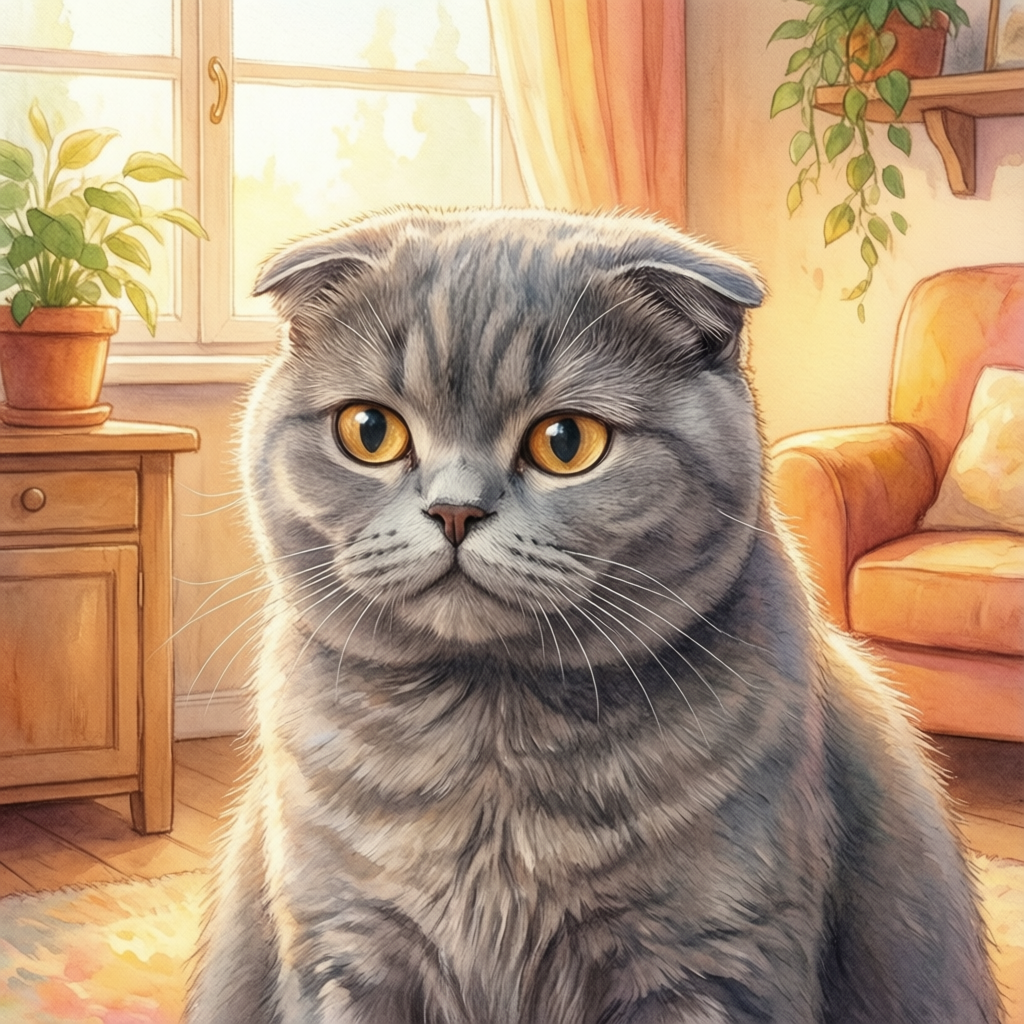
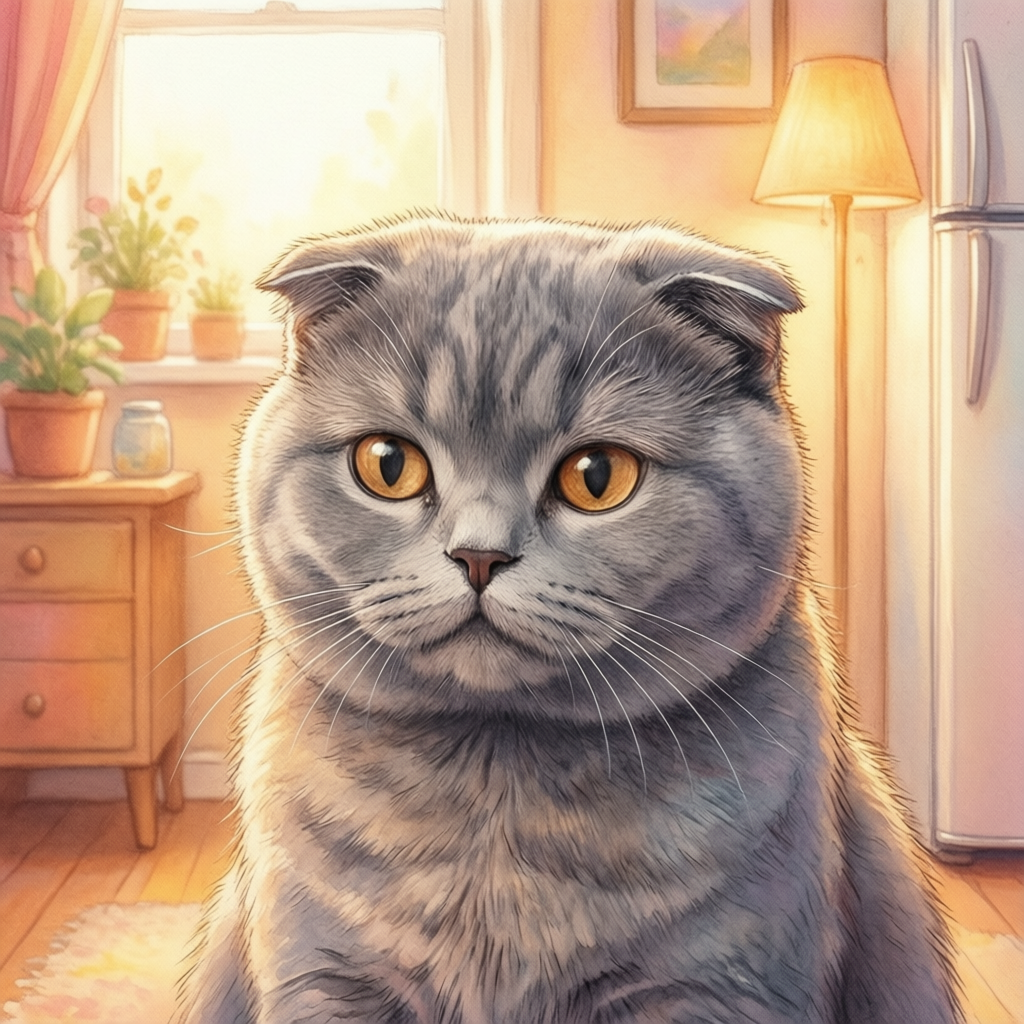
feat: глава 5 — Про детские рисунки на холодильнике

diff --git a/chapters/05.md b/chapters/05.md
@@ -1,89 +1,75 @@
 # Глава 5. Про детские рисунки на холодильнике
 
-***
+Воскресенье в нашем доме пахнет гуашью и подгоревшими блинами. Первое — от младшего, второе — от Марии, которая жарит и одновременно слушает, как старший бубнит из своей комнаты про силу трения. Я лежу на подоконнике, поджав лапы, и притворяюсь частью пейзажа. Но мне всё слышно. У котов выходных не бывает.
 
-Утро воскресенья не звонит в будильник. Оно просачивается в комнату сквозь шторы — бледное, хрустальное, с запахом замороженной травы и дымка от чьей-то печи. В Краснодаре 4,8 градуса. Солнце лжётся на пол длинными косыми полосками, и я иду за ними, как за заяцем, которого не догоню, но за которым приятно бегать.
-
-Мария уже на кухне. Чайник шипит, как уставший паровоз. Она стоит у стола, обняв себя за плечи — жест, который она делает только когда думает, что никто не смотрит. Муж ушёл рано. Охота, рыбалка, «дело на даче» — формулировки меняются, суть одна: ему нужен воздух, где не нужно быть отцом, мужем, сыном. Я понимаю. Каждому нужен свой угол, где можно просто быть кошкой. Или человеком без ролей.
+Солнце сегодня скупое, но честное. Светит ровно до середины кухни — до того места, где стоит коробка с сухим кормом, и дальше не идёт. За окном четыре градуса тепла, голые ветки берёзы, и на одной из них опять сидит этот нахал-ворон. Я уже перестал удивляться. Он смотрит на меня, я — на него. Так и сидим: два инспектора, каждый со своей стороны стекла.
 
 ***
 
-Холодильник — наш Лувр. Наш Эрмитаж. Личный музей современного искусства, где куратором является магнит в форме помидора, а экспозиция обновляется хаотично, по воле вдохновения и высоты стула.
+Младший возникает на кухне без объявления войны. В одной руке — лист ватмана, в другой — акварель, которая, судя по фиолетовым разводам на рукаве, уже побывала в бою. Он протягивает лист Марии:
 
-Я прыгаю на табурет, потом на столешницу, оттуда — на верхушку холодильника. Отсюда видно лучше. Видно всё: замасленную ручку микроволновки, сушёные крошки на полке, и — главное — галерею.
+— Это наш холодильник, — говорит он. — А это ты выбираешь, какой рисунок повесить.
 
-Рисунок «Моя семья» занимает почетное место в центре. Приклеен скотчем, углы помяты, бумага пожелтела от времени и парафинового воска. Младший нарисовал нас всеми четверыми. И кота. Кота — больше папы. Меньше мамы.
+Мария вытирает руки о фартук, который я по воскресеньям считаю своей запасной лежанкой, и присаживается на корточки. Я спрыгиваю с подоконника, чтобы быть ближе к совету. Не то чтобы у меня было право голоса, но присутствовать при домашней демократии — уже традиция.
 
-Я ухмыляюсь — кошки умеют ухмыляться, просто вы не замечаете, у нас другие мышцы лица. Папа — палка с круглым головой и невероятно длинными руками. «Чтобы доставать книги с верхней полки», — объяснял сын, приклеивая шедевр. Мама — в платье с цветочками, с руками на бедрах. «Ты же всегда так стоишь, когда сердишься на нас за неубранные носки», — добавил он с достоинством старшего брата. Старший брат — с наушниками, за решёткой своей комнаты. Дверь нарисована запертой. Замок. Ключ утерян.
+На рисунке — прямоугольник. Внутри прямоугольника — четыре фигуры. Одна большая, с жёлтыми волосами, это Мария. Рядом — фигура поменьше, с портфелем, это старший. Ещё одна, совсем маленькая, с шапкой набекрень, это сам художник. А сбоку — кто-то серый, с ушами, похожий на картошку с хвостом.
 
-А я — пушистый комок с ушами-ложками и хвостом-вопросительным знаком. Усы — отдельной строкой, каждая по три сантиметра. Хвост задирает вверх: флаг победы, флаг мира, флаг «я здесь, я главный, кормите меня».
+— Это я, — говорю я, но меня, как обычно, не слышат.
 
-Рядом — другие работы. «Осень» (красное пятно — клён, жёлтое — береза, синее — небо, чёрное — «ворон, который орет по утрам»). «Мой дом» (квадрат с треугольником, дымоход, из которого идёт не дым, а сердечки). «Кот в коробке» (коробка нарисована объёмно, с тенью, а я внутри — только уши и глаз).
+Мария трогает край листа, будто проверяет, высохла ли краска.
 
-Магнит-помидор держит всё это хозяйство на чести. Иногда, когда Мария вытирает полки, она снимает рисунки, выдувает пыль, кладёт обратно — как священник поправляет иконы.
+— А папу ты забыл? — спрашивает она мягко.
 
-***
+Младший задумывается. Не потому что забыл, а потому что решает, как объяснить.
 
-Ворон сидит на берёзе за окном. Тот самый. Нахал. Инспектор. Чёрный фрак, синий блеск на крыльях, глаз — бусина, в которой отражается наш двор, моя морда, облако, ползущее через небо.
+— Папа на работе, — говорит он наконец. — Но я оставил ему место.
 
-Он не кричит сегодня. Просто смотрит. Головой вращает, как навигатор на старой машине. Оценивает. Каталогизирует.
+Он показывает на пустой угол листа. Там ничего нет. Только маленькая чёрная точка, которую я сначала принимаю за кляксу.
 
-— Ну что, пришёл за отчётом? — мысленно спрашиваю я. — Проверяешь, как я выполняю долг по охране уюта?
+— Это его телефон, — объясняет младший. — Он всегда смотрит в телефон, когда дома.
 
-Он клюёт сухую ветку. Хруст слышен даже через стекло. Потом поднимает голову, и мне кажется — он подмигивает. Или это блик солнца на перьях.
-
-Воронам, как и кошкам, не нужно объяснять границы. Они их знают. Уважают. Нарушают только когда им вздумается — и это их право. В отличие от людей, которые подписывают контракты, строят заборы, пишут законы, а потом ломают их с чистой совестью.
-
-Ворон улетает. Тень скользит по полу, касается моего хвоста. Холодная, быстрая, живая.
+Мария молчит. Я вижу, как она проводит рукой по фартуку, потом по голове младшего. Медленно, будто боится сломать что-то невидимое.
 
 ***
 
-Записка лежит на столе. Та самая. Жёлтый липкий квадратик, уголок подогнут, край помят от пальцев.
+Через час рисунок висит на холодильнике. Мария выбрала не новый, а старый — тот, где я «больше папы, но меньше мамы». Он прижат магнитом в виде арбуза. Рядом — расписание старшего, чек из супермаркета и записка мужа: «Купи молока. Люблю». Записка пожелтела, как лист той берёзы за окном.
 
-«Купи молока. Люблю».
+Я сажусь напротив холодильника и рассматриваю это собрание. Наш домашний алтарь. Иконостас из гуаши, кассовой ленты и несказанных слов.
 
-Муж оставил её вчера вечером. Под чашкой. Там, где Мария обязательно увидит — она ставит чашку строго в этот угол, правее центра, параллельно краю стола. Ритуал в ритуале.
+Младший рисует новый лист — специально для конкурса. Он высунул язык от усердия, как всегда делает, когда старается. На этот раз он рисует ворона. Я заглядываю через его плечо. Ворон получается не злой, а задумчивый. С книгой. Или с бутербродом. Не разберёшь.
 
-Она прочитала. Я видел — губы дрогнули, не в улыбке, не в грусти. В чём-то третьем. Что-то вроде удивления, что после пятнадцати лет, двух детей, ипотеки, тещи, тестя, почки у мамы, зарплат, кредитов, бессонных ночей и утренних споров за ванную — он всё ещё пишет записки. И клеит их на холодильник. И кладёт под чашку.
+— Он приносит новости, — говорит младший, не отрываясь. — Он как почтальон, только чёрный.
 
-Она не ответила запиской. Не смс-кой. Не голосовым.
-
-Она просто поставила чашку назад. На записку. Прикрыла слова своей чашкой — керамической, с трещиной на ручке, подаренной старшим сыном за 8 Марта пять лет назад.
-
-И ушла в спальню одеваться. На прогулку. Одинокую. Без собаки (собаки нет, но фраза «прогулка без собаки» звучит в голове как шутка, которую я не догоняю).
-
-Муж вернётся к обеду. Или к ужину. С продуктами. Или без. С грязными ботинками. Или с цветами (маловероятно, но бывает — раз в три года).
-
-Записка останется под чашкой. До понедельника. До следующей. До той, что скажет: «Забрал детей. Люблю». Или: «Опоздаю. Люблю». Или просто: «Люблю».
-
-Слова, написанные от руки, весят больше любых сказанных. Они остаются. Их можно потрогать. Их можно спрятать в коробку с важными бумагами, где лежат свидетельства о рождении, паспорта, полис ОМС — и записки про молоко.
+Я смотрю на настоящего ворона за окном. Тот сидит нахохлившись, спрятал клюв под крыло. Никакой почты он не приносит, чистый нахлебник. Но пусть ребёнок верит. Дети вообще хорошо умеют видеть сюжеты там, где взрослые видят одну сплошную скуку.
 
 ***
 
-Вечер накрывает дом вязью. Не туманом — вязью. Тёплой, вкусной, пахнущей варёной картошкой, жареным луком, чаем с лимоном и чьим-то парфюмом (Марии — жасмин, мужу — дерево, старшему — дешёвый дезодорант, младшему — пластилин и воск).
+Вечером возвращается муж. Вносит с собой холод, запах бензина и пакет молока. Ставит пакет на стол, замечает рисунок на холодильнике. Подходит ближе. Читает записку. Свою собственную. Я жду, что он её заберёт или заменит. Но он просто поправляет магнит, который и так держал ровно.
 
-Все за столом. Муж рассказывает про дачу. Про забор, который «наконец-то постоял». Про соседа, который «опять задел нашу землю полотном». Мария кивает, кладёт в тарелку сыну кусок котлеты — тот самый, без луковицы, который он любит. Старший ест молча, в наушниках (они на шее, но провод всё ещё в телефоне — талисман, щит, граница). Младший жевает, качая ногой, и вдруг говорит:
+— Хороший рисунок, — говорит он.
 
-— Пап, а почему на рисунке кот больше тебя?
+Мария из кухни:
 
-Муж смеётся. Глубоко, грудью, так что дрогнет столешница.
+— Это старый. Младший новый нарисовал, с вороном. Для конкурса.
 
-— Потому что он важнее, — отвечает он. — Кошки всегда важнее. Это закон вселенной.
+Муж кивает. Я не отрываясь смотрю на его пальцы — они перебирают край записки, как чётки. Потом он убирает руку в карман, будто испугался, что его застали за чем-то личным.
 
-— Несправедливо, — ворчит старший, но уголки губ дергаются. — Я же тоже важен.
+Позже, когда все расходятся, он снова подходит к холодильнику. Достаёт из кармана маленький магнит — такой, с термометром, — и прикрепляет записку к дверце покрепче. Чтобы не слетала. Чтобы держалась.
 
-— Ты важнее, — говорит Мария тихо. Не поднимая глаз от чая. — Все вы важнее. Но кот — он... он клей.
-
-Я пью воду из миски. Вода прохладная, с привкусом железа от старых труб. Поднимаю голову. Четыре пары глаз на мне. Две — карих (Мария и младший). Одна — серых (муж). Одна — карих, но с иным блеском (старший — он носит цветные линзы, считает, что так круче).
-
-— Клей, — повторяю я про себя. — Клей, который мурлычет. Клей, который спит на клавиатуре. Клей, который сжирает записки про молоко, если их не убрать вовремя.
-
-Младший протягивает мне кусочек котлеты. Под столом. На ладони — тёплый, жирный, идеальный.
-
-— На, Маркиз. Ты же клей. Клей должен быть крепким.
-
-Я беру. Осторожно. Не царапаю. Мурлычу — гулко, низко, как старый двигатель, который заводится с полуоборота.
+Я лежу у батареи, делаю вид, что сплю. Но я всё видел.
 
 ***
 
-P.S. Детские рисунки на холодильнике — это не украшение. Это карта. Карта сердец, живущих под одной крышей. Кто нарисован больше — тот любимее не по размеру, а по значению. Кто нарисован меньше — тот не менее важен, просто он держит этот мир на своих плечах, и рука ребёнка дрогнула, рисуя силу. А если кот больше папы — значит, папа знает свою роль. И не обижается. Обида — это когда ты человек и думаешь, что размер имеет значение. Коты знаем: значение — в весе. А вес — в любви. И в котлете, подсунутой под столом.
+Ночью я просыпаюсь оттого, что холодильник гудит, как старый колыбельный. Встаю, потягиваюсь, иду проверить, не передвинулось ли что-нибудь за день. Рисунок висит. Записка висит. Ворон за окном, кажется, тоже висит — на той же ветке, как чёрная запятая в ночном небе.
+
+Я думаю про пустой угол на новом рисунке. Про то, что дети всегда оставляют место для нас, даже когда мы всё время «в телефоне» или «на работе». И что мы, взрослые, тоже рисуем свои холодильники — только вместо гуаши у нас чеки, записки, магниты с чужими городами.
+
+Детский рисунок честнее. Он не боится пустоты. Он говорит: «Вот твоё место. Оно пока свободно. Вернись — и я тебя нарисую».
+
+Я засыпаю с этой мыслью. И с едва заметным уважением к ворону, который, как выяснилось, всё-таки кое-что приносит. Хотя бы тишину.
+
+---
+
+**P.S.** Если хочешь, чтобы тебя нарисовали в полный рост, — спи на самом видном месте. Дети идут за сюжетом, как за солнечным зайчиком. Помоги им наследить. А если серьёзно — я проверял: ворон на ветке не спит, а дежурит. Кто-то из нас должен сторожить этот дом. Пусть думает, что это он.
+
+Ваш Маркиз.

diff --git a/continuity.md b/continuity.md
@@ -41,6 +41,7 @@
 3. **Птицы за окном и справедливость** — делить ветку пополам; «правда и удобство плавают в разных прудах»; «уступить важнее, чем победить»; «справедливость = тихое "нет"»; нахал-ворон как завязка.
 
 4. **Про ветеринара и достоинство** — (метафоры уточнить после вычитки)
+5. **Про детские рисунки на холодильнике** — (метафоры уточнить после вычитки)
 ## Заметки
 
 - Имя мужа и имена детей пока не введены — можно ввести в будущих главах, затем зафиксировать здесь.
